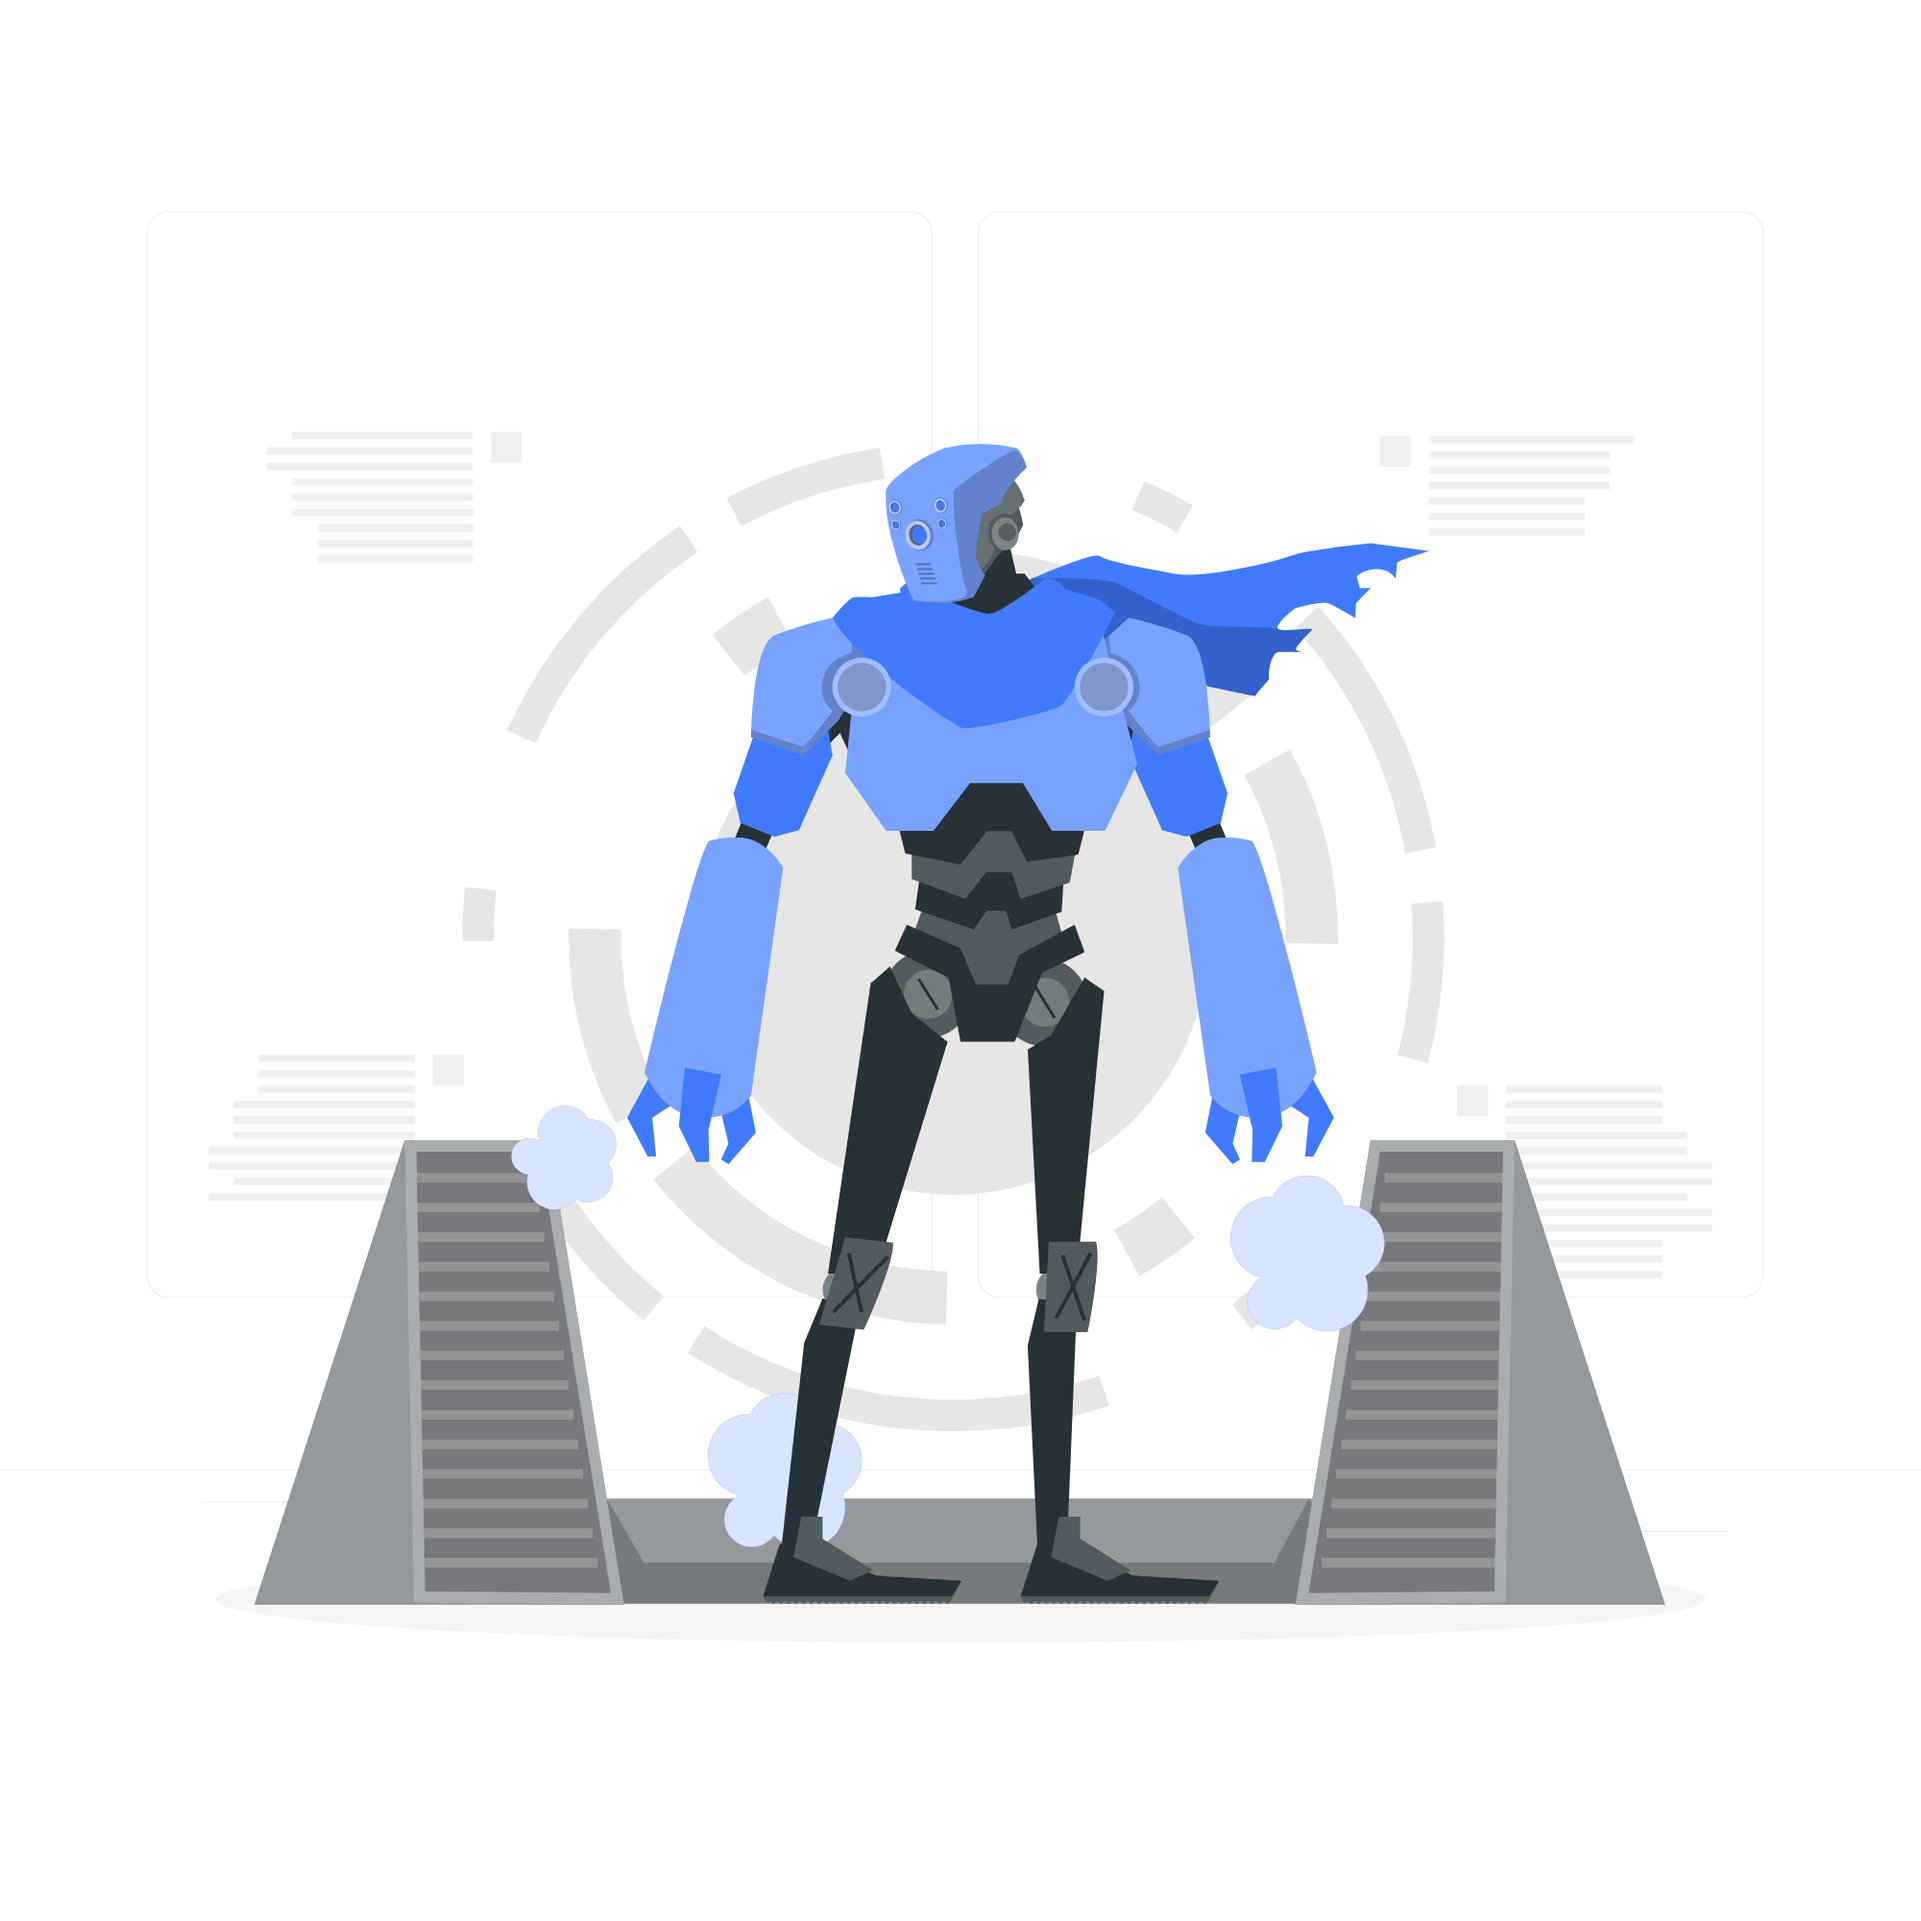
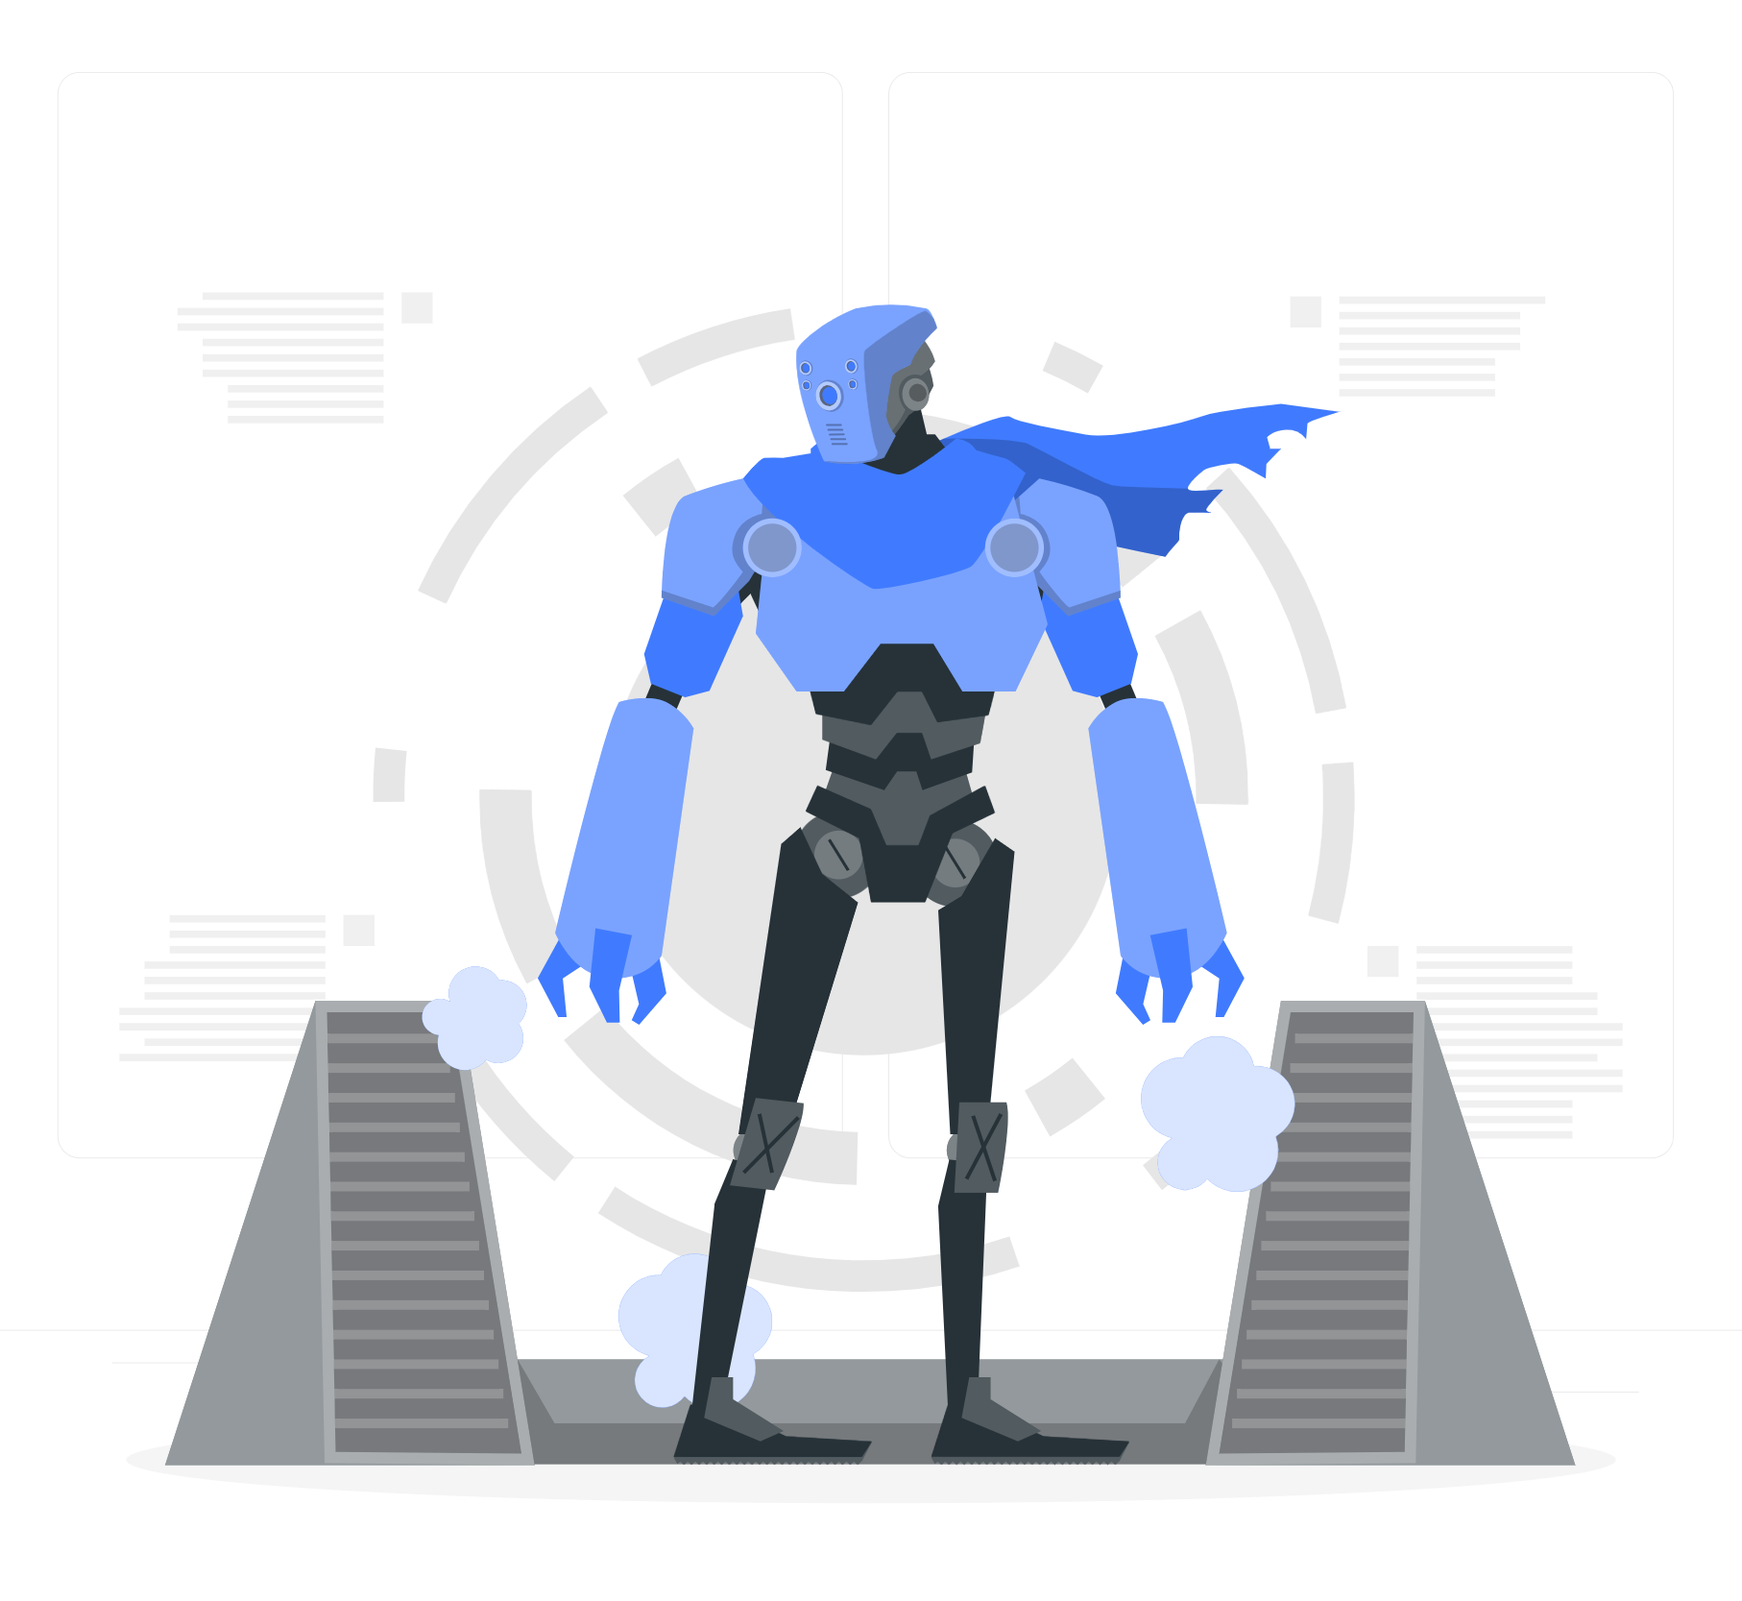
Updated EndLesson by readding the Robot image in EndLesson (did this before but now added back)

Changed region(s): [[0.0926, 0.1872, 0.8953, 0.9358]]

diff --git a/running_robot/lib/z_pages/end_lesson.dart b/running_robot/lib/z_pages/end_lesson.dart
@@ -14,7 +14,7 @@ import 'package:running_robot/game/texts/text_box.dart';
 /// Renders a pre-built (final) LessonProgressBar passed via constructor.
 class EndLessonPage extends FlameGame {
   // ---- Callbacks ----
-  final VoidCallback onRepeat; // kept, not used here but part of API
+  final VoidCallback onRepeat; // kept for API parity
   final VoidCallback onNext;
   final VoidCallback onMainMenu;
 
@@ -24,7 +24,8 @@ class EndLessonPage extends FlameGame {
   final int chapterProgress; // e.g. 3
   final int totalChapterLessons; // e.g. 10   => shows "3/10"
   final String topText; // headline
-  final String? illustrationPath; // optional asset
+  final String?
+      illustrationPath; // optional extra asset (kept for compatibility)
   final LessonProgressBar progressBar; // 🔹 final task bar to display
 
   // ---- Internals ----
@@ -41,7 +42,7 @@ class EndLessonPage extends FlameGame {
     required this.chapterProgress,
     required this.totalChapterLessons,
     required this.topText,
-    required this.progressBar, // 🔹 passed-in bar
+    required this.progressBar,
     this.illustrationPath,
   });
 
@@ -90,31 +91,69 @@ class EndLessonPage extends FlameGame {
       maxWidth: 300,
     )..switchPhase(EventText.showText);
 
-    // -------- Illustration (optional) --------
-    if (illustrationPath != null && illustrationPath!.isNotEmpty) {
-      final sprite = await Sprite.load(illustrationPath!);
+    // -------- Progress bar (NO animation; use prebuilt) --------
+    progressBar.position = Vector2(size.x / 2, 70);
+    add(progressBar);
+
+    // ---- Layout knobs for robot & spacing ----
+    const double gapUnderTitle = 24.0; // space between title and robot
+    const double gapBelowRobot = 15.0; // space between robot and boxes
+    const double robotSideMargin = 32.0; // keeps robot away from screen edges
+
+    // -------- Blue robot illustration (bigger, centered) --------
+    // We size the robot generously while fitting within both width & height caps.
+    // Then we anchor the boxes relative to the robot’s bottom + a clean gap.
+    double robotW = 0, robotH = 0;
+    double robotCenterY = 0;
+
+    try {
+      final robot = await Sprite.load('blue_robot.png');
+      final Vector2 src = robot.srcSize;
+      final double aspect = (src.y == 0) ? 1.0 : (src.x / src.y);
+
+      // Generous max sizes to make it feel big:
+      final double maxRobotW =
+          (size.x - 2 * robotSideMargin).clamp(260.0, 9999.0);
+      final double maxRobotH = (size.y * 0.33).clamp(180.0, 360.0);
+
+      // Fit within both constraints while preserving aspect ratio.
+      if (maxRobotW / aspect <= maxRobotH) {
+        robotW = maxRobotW;
+        robotH = robotW / aspect;
+      } else {
+        robotH = maxRobotH;
+        robotW = robotH * aspect;
+      }
+
+      // Place the robot below the title with a consistent gap.
+      final double topTextY = textBox.position.y; // 200
+      final double robotTop = topTextY + gapUnderTitle;
+      robotCenterY = robotTop + robotH / 2;
+
       add(
         SpriteComponent(
-          sprite: sprite,
-          size: Vector2.all(400),
-          position: Vector2(size.x / 2, 360),
+          sprite: robot,
+          size: Vector2(robotW, robotH),
+          position: Vector2(size.x / 2, robotCenterY),
           anchor: Anchor.center,
         ),
       );
+    } catch (_) {
+      // If the asset can't be loaded, fall back to old layout numbers
+      // so nothing crashes.
+      final double topTextY = textBox.position.y;
+      robotH = 0;
+      robotCenterY = topTextY; // boxes will compute below
     }
 
-    // -------- Progress bar (NO animation; use prebuilt) --------
-    // We just position and add the passed-in bar.
-    progressBar.position = Vector2(size.x / 2, 70);
-    // If your bar supports anchor, uncomment the next line:
-    // progressBar.anchor = Anchor.center;
-    add(progressBar);
-
-    // -------- Three FancyBoxes (layout fixed) --------
+    // -------- Three FancyBoxes (row positioned under the robot) --------
     final Vector2 boxSize = Vector2(110, 96);
     const double preferredGap = 18.0;
     const double sideMargin = 24.0;
-    final double y = size.y / 2 + 110;
+
+    // Center line for the row of boxes:
+    final double boxesY =
+        (robotCenterY + robotH / 2) + gapBelowRobot + (boxSize.y / 2);
 
     double gap = preferredGap;
     final double maxRowWidth = size.x - 2 * sideMargin;
@@ -129,7 +168,7 @@ class EndLessonPage extends FlameGame {
 
     // LEFT: TOTAL XP
     final xpBox = FancyBox(
-      position: Vector2(firstCenterX, y),
+      position: Vector2(firstCenterX, boxesY),
       anchor: Anchor.center,
       boxSize: boxSize,
       titleText: 'Total XP',
@@ -147,7 +186,7 @@ class EndLessonPage extends FlameGame {
 
     // MIDDLE: CHAPTER PROGRESS (X / Y)
     final progressBox = FancyBox(
-      position: Vector2(secondCenterX, y),
+      position: Vector2(secondCenterX, boxesY),
       anchor: Anchor.center,
       boxSize: boxSize,
       titleText: 'Progress',
@@ -174,7 +213,7 @@ class EndLessonPage extends FlameGame {
 
     // RIGHT: DAILY STREAK
     final streakBox = FancyBox(
-      position: Vector2(thirdCenterX, y),
+      position: Vector2(thirdCenterX, boxesY),
       anchor: Anchor.center,
       boxSize: boxSize,
       titleText: 'Streak',
@@ -198,7 +237,24 @@ class EndLessonPage extends FlameGame {
       letterSpacing: 0.2,
     )..switchPhase(EventHorizontalObstacle.startMoving);
 
-    // Draw order
+    // -------- Optional extra illustration (kept for compatibility) --------
+    if (illustrationPath != null && illustrationPath!.isNotEmpty) {
+      try {
+        final sprite = await Sprite.load(illustrationPath!);
+        add(
+          SpriteComponent(
+            sprite: sprite,
+            size: Vector2.all(400),
+            position: Vector2(size.x / 2, boxesY - 140),
+            anchor: Anchor.center,
+          ),
+        );
+      } catch (_) {/* ignore */}
+    }
+
+    // -------- Draw order --------
+    // Robot is added earlier; boxes are added after it (so if overlap happens,
+    // boxes render on top). Text and bar remain independent.
     add(nextLessonButton);
     add(returnButton);
     addAll([xpBox, progressBox, streakBox]);

diff --git a/running_robot/lib/core/base_lesson_brain.dart b/running_robot/lib/core/base_lesson_brain.dart
@@ -149,7 +149,7 @@ abstract class BaseLessonBrainState<T extends BaseLessonBrain>
   Widget build(BuildContext context) {
     final sub = subLessons[currentIndex];
 
-    // Build the current sub-lesson’s widget
+    // Build current sub-lesson
     final built = sub.build(() {
       setState(() => answered = true);
       if (sub.mechanic == LessonMechanic.auto) {
@@ -157,10 +157,7 @@ abstract class BaseLessonBrainState<T extends BaseLessonBrain>
       }
     }, resetAnswer);
 
-    // ✅ FIX: wrap with a KeyedSubtree keyed by (lessonId, index, nonce)
-    // so that when _restartNonce changes (on “Try Again”), Flutter discards
-    // the old game State and mounts a brand-new instance, allowing onCompleted
-    // to emit again → Continue button returns.
+    // Force remount on Try Again
     final keyedBuilt = KeyedSubtree(
       key: ValueKey(
           'lesson:${widget.lessonId}:step:$currentIndex:$_restartNonce'),
@@ -170,7 +167,16 @@ abstract class BaseLessonBrainState<T extends BaseLessonBrain>
     return Scaffold(
       backgroundColor: Colors.white,
       body: Stack(
+        clipBehavior: Clip.none,
         children: [
+          // 1) Sub-lesson content UNDER everything else
+          Positioned.fill(
+            top: sub.topOffset,
+            bottom: 100,
+            child: keyedBuilt,
+          ),
+
+          // 2) Progress bar above content
           Align(
             alignment: Alignment.topCenter,
             child: Padding(
@@ -181,6 +187,18 @@ abstract class BaseLessonBrainState<T extends BaseLessonBrain>
               ),
             ),
           ),
+
+          // 3) Continue button above content (if applicable)
+          if (sub.mechanic == LessonMechanic.manual ||
+              (sub.mechanic == LessonMechanic.emit && answered))
+            Positioned(
+              bottom: 40,
+              left: 0,
+              right: 0,
+              child: ContinueButton(onPressed: goNext),
+            ),
+
+          // 4) X button LAST so it paints on top and receives taps first
           Positioned(
             top: 69,
             left: screenH * 0.035,
@@ -191,19 +209,6 @@ abstract class BaseLessonBrainState<T extends BaseLessonBrain>
               onPressed: (_) => widget.onNavigate(const RouteMainMenu(tab: 0)),
             ),
           ),
-          Positioned.fill(
-            top: sub.topOffset,
-            bottom: 100,
-            child: keyedBuilt, // ✅ use the keyed subtree here
-          ),
-          if (sub.mechanic == LessonMechanic.manual ||
-              (sub.mechanic == LessonMechanic.emit && answered))
-            Positioned(
-              bottom: 40,
-              left: 0,
-              right: 0,
-              child: ContinueButton(onPressed: goNext),
-            ),
         ],
       ),
     );

diff --git a/running_robot/lib/z_pages/lessons/qual-game/_brain.dart b/running_robot/lib/z_pages/lessons/qual-game/_brain.dart
@@ -26,9 +26,17 @@ class _QualGameBrainState extends BaseLessonBrainState<QualGameBrain> {
         SubLesson(
           topOffset: screenH * 0.05,
           mechanic: LessonMechanic.emit,
-          build: (done, reset) => CatchQualGame(
+          build: (done, _remountingReset /* not used here */) => CatchQualGame(
             onStepCompleted: done,
-            onReset: reset, // 👈 now connected
+            // 👇 Use a NON-remounting reset so Start Game won't dispose itself mid-callback.
+            onReset: () {
+              // just hide the Continue button; do NOT bump _restartNonce
+              if (mounted) {
+                setState(() {
+                  answered = false;
+                });
+              }
+            },
           ),
         ),
       ];

diff --git a/running_robot/lib/core/lesson_navigator.dart b/running_robot/lib/core/lesson_navigator.dart
@@ -33,7 +33,7 @@ class LessonNavigator {
         progressBar: endBar,
         chapterProgress: idx + 1,
         totalChapterLessons: _allLessons.length,
-        topText: "Lesson ${idx + 1} complete! 🎉",
+        topText: "Lesson ${idx + 1} completed!",
         repeatLesson: RouteLesson(idx + 1),
         nextLesson: next,
       ),
